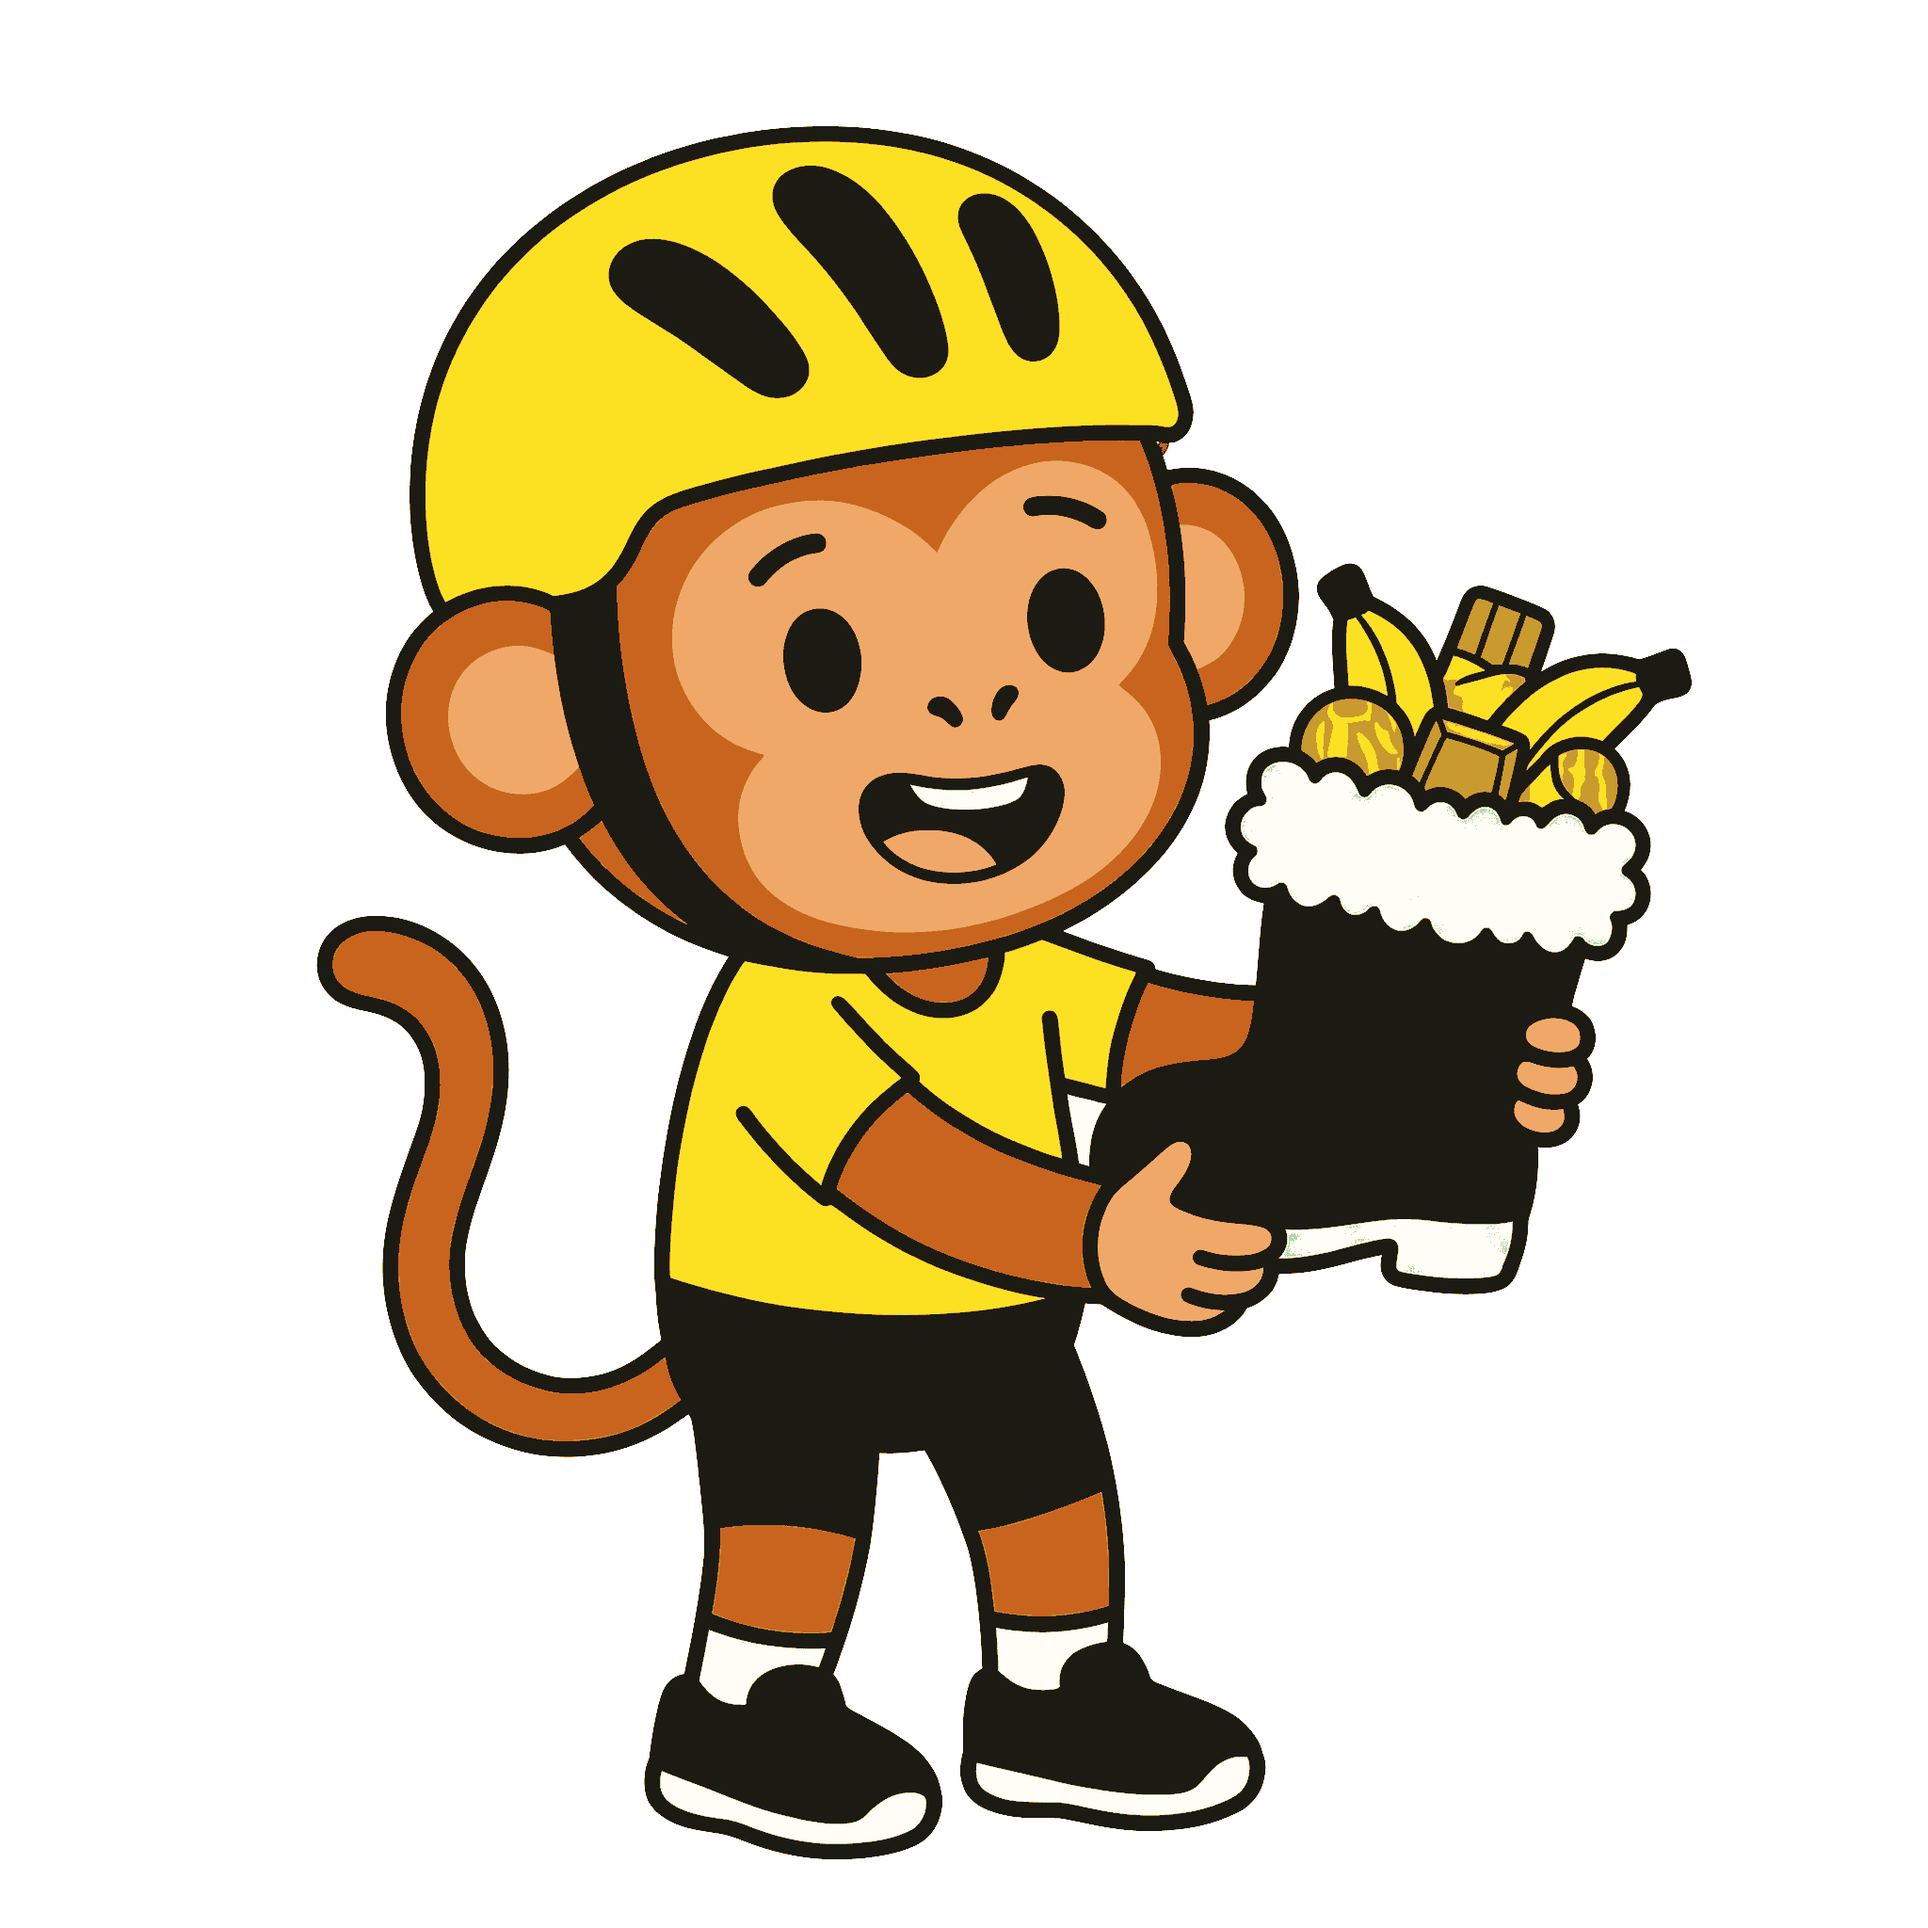
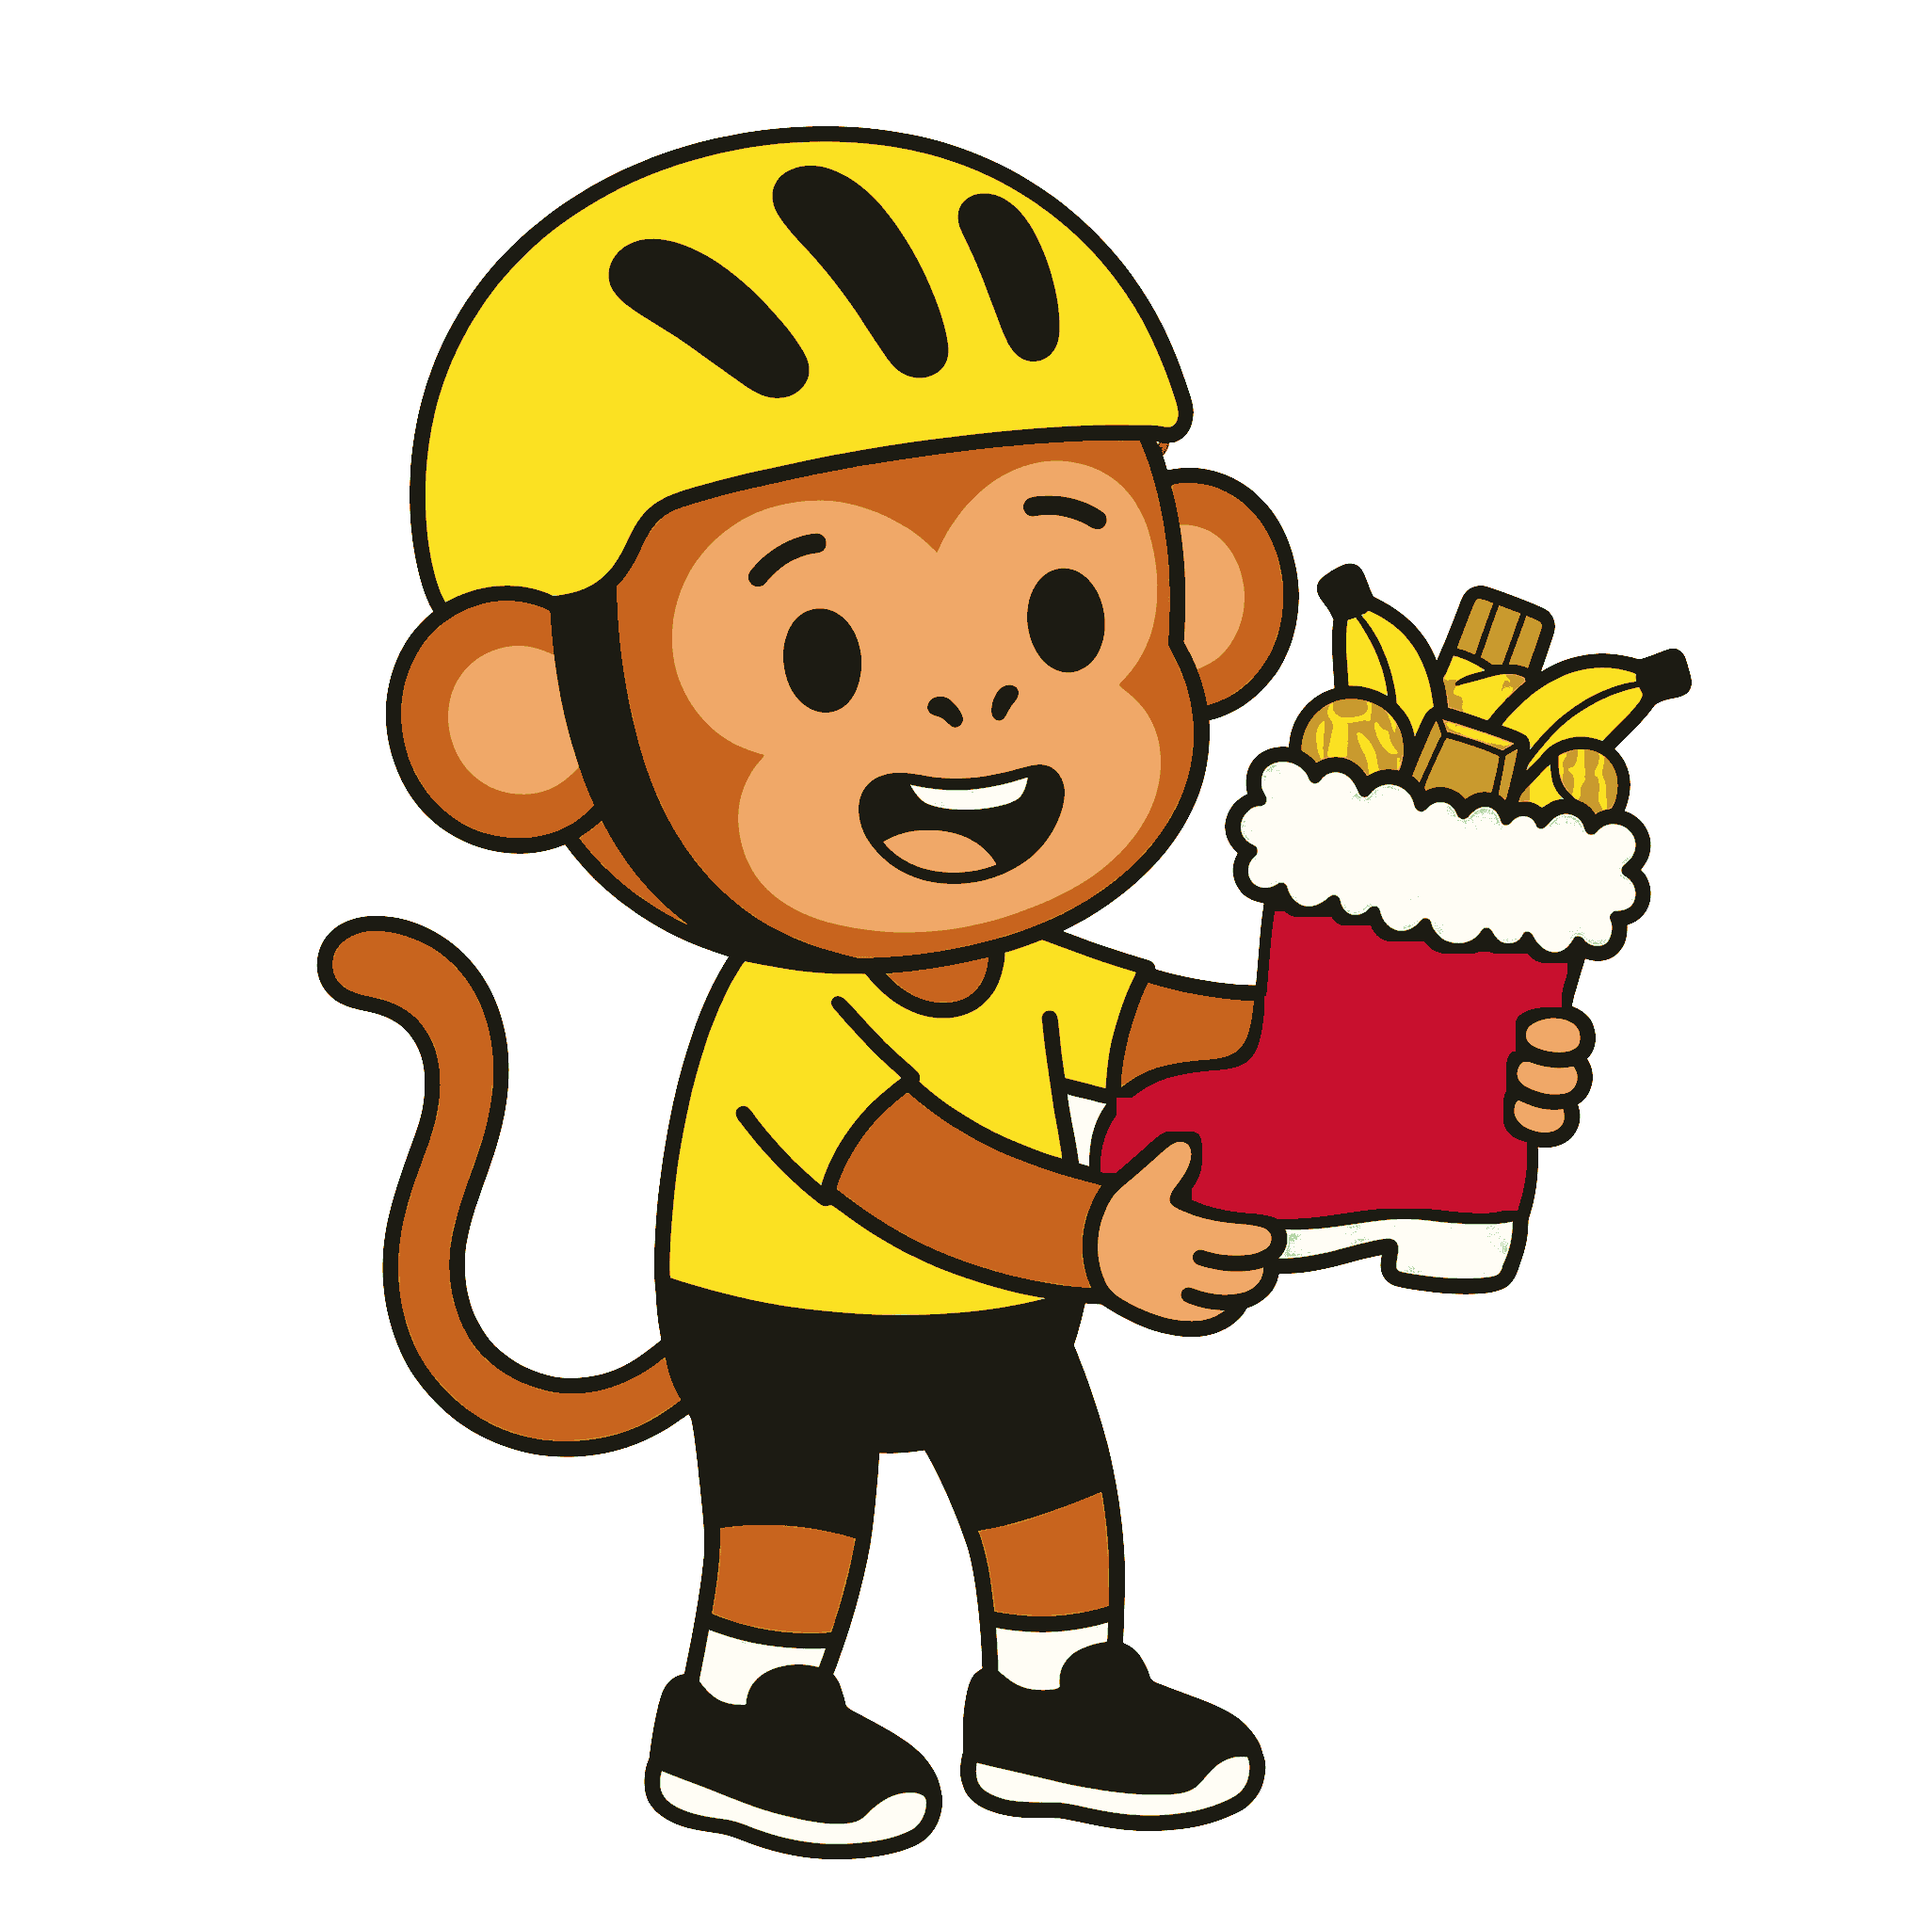
feat: give the Nikolaus monkey a red boot
Adds red (#C8102E) to the coin palette the tracer snaps to, only for the
Nikolaus boot, and recolours the boot's fill in the original.

Changed region(s): [[0.5625, 0.4688, 0.8125, 0.6562]]

diff --git a/src/http/art-versions.ts b/src/http/art-versions.ts
@@ -160,7 +160,7 @@ export const ART_VERSIONS: Readonly<Record<string, string>> = {
 	"/quotes/hint-psst.svg": "5a8be409f5",
 	"/quotes/hint-tape.svg": "01b1e44c08",
 	"/quotes/new-year.svg": "bc0c4ffed3",
-	"/quotes/nikolaus.svg": "d028a034ab",
+	"/quotes/nikolaus.svg": "33587122cd",
 	"/quotes/paris.svg": "041b2ae19f",
 	"/quotes/point.svg": "43fde501ee",
 	"/quotes/rain.svg": "fd7cee77b6",
